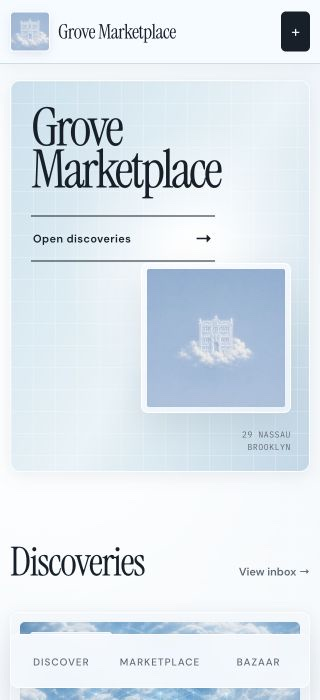
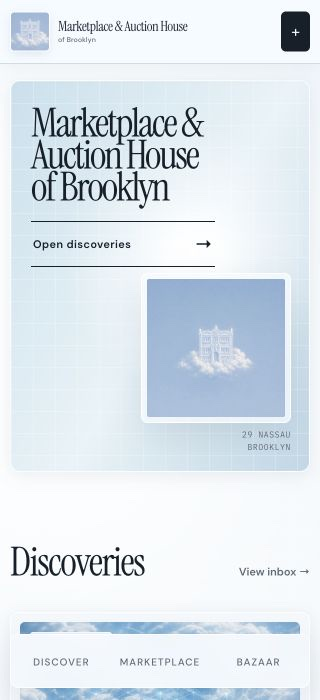
Set Brooklyn auction house identity (#10)

diff --git a/index.html b/index.html
@@ -4,19 +4,19 @@
   <meta charset="utf-8">
   <meta name="viewport" content="width=device-width, initial-scale=1, viewport-fit=cover">
   <meta name="theme-color" content="#d5e8f3">
-  <meta name="description" content="Grove Marketplace. Curator-led physical and digital art in Brooklyn.">
+  <meta name="description" content="Marketplace &amp; Auction House of Brooklyn. Curator-led physical and digital art.">
   <meta name="robots" content="index,follow,max-image-preview:large">
-  <meta property="og:title" content="Grove Marketplace">
+  <meta property="og:title" content="Marketplace &amp; Auction House of Brooklyn">
   <meta property="og:description" content="Curator-led physical and digital art in Brooklyn.">
   <meta property="og:type" content="website">
   <meta property="og:url" content="https://the-school-omega.vercel.app/">
   <meta property="og:image" content="https://the-school-omega.vercel.app/public/assets/school-seed.jpg">
   <meta property="og:image:alt" content="A glowing ornate school floating in pale-blue clouds">
   <meta name="twitter:card" content="summary_large_image">
-  <meta name="twitter:title" content="Grove Marketplace">
+  <meta name="twitter:title" content="Marketplace &amp; Auction House of Brooklyn">
   <meta name="twitter:description" content="Curator-led physical and digital art in Brooklyn.">
   <meta name="twitter:image" content="https://the-school-omega.vercel.app/public/assets/school-seed.jpg">
-  <title>Grove Marketplace</title>
+  <title>Marketplace &amp; Auction House of Brooklyn</title>
   <link rel="canonical" href="https://the-school-omega.vercel.app/">
   <link rel="icon" href="public/assets/school-mark.jpg" type="image/jpeg">
   <link rel="apple-touch-icon" href="public/assets/school-mark.jpg">
@@ -30,9 +30,9 @@
   <a class="skip-link" href="#app">Skip to content</a>
 
   <header class="topbar">
-    <a class="brand" href="#home" aria-label="Grove Marketplace, home">
+    <a class="brand" href="#home" aria-label="Marketplace &amp; Auction House of Brooklyn, home">
       <img src="public/assets/school-mark.jpg" alt="" width="56" height="56">
-      <span><strong>Grove Marketplace</strong></span>
+      <span><strong>Marketplace &amp; Auction House</strong><small>of Brooklyn</small></span>
     </a>
 
     <nav class="main-nav" aria-label="Primary navigation">
@@ -52,9 +52,9 @@
   </main>
 
   <footer class="footer">
-    <a class="brand brand--footer" href="#home" aria-label="Grove Marketplace, home">
+    <a class="brand brand--footer" href="#home" aria-label="Marketplace &amp; Auction House of Brooklyn, home">
       <img src="public/assets/school-mark.jpg" alt="" width="48" height="48">
-      <span><strong>Grove Marketplace</strong></span>
+      <span><strong>Marketplace &amp; Auction House</strong><small>of Brooklyn</small></span>
     </a>
     <nav aria-label="Footer navigation">
       <a href="#discover">Discover</a>

diff --git a/app.js b/app.js
@@ -11,7 +11,7 @@ import {
 } from "./catalog.js";
 import { track, trackClientErrors } from "./analytics.js";
 
-const BRAND_NAME = "Grove Marketplace";
+const BRAND_NAME = "Marketplace & Auction House of Brooklyn";
 const app = document.querySelector("#app");
 const collectDialog = document.querySelector("#collect-dialog");
 const collectContent = document.querySelector("#collect-content");
@@ -121,7 +121,7 @@ const home = () => {
     <div class="page home-page">
       <section class="hero" aria-label="${BRAND_NAME}">
         <div class="hero__identity">
-          <h1>Grove<br>Marketplace</h1>
+          <h1>Marketplace &amp;<br>Auction House<br>of Brooklyn</h1>
           <a class="hero__action" href="#discover">Open discoveries <span aria-hidden="true">→</span></a>
         </div>
         <figure class="hero__mark">
@@ -612,7 +612,7 @@ document.addEventListener("submit", (event) => {
 const downloadCalendar = () => {
   const file = ["BEGIN:VCALENDAR", "VERSION:2.0", "BEGIN:VEVENT", "DTSTART:20260912T160000Z", "DTEND:20260912T230000Z", `SUMMARY:${BRAND_NAME} · Assembly of Light`, "LOCATION:29 Nassau Avenue\\, Brooklyn\\, New York", "END:VEVENT", "END:VCALENDAR"].join("\r\n");
   const url = URL.createObjectURL(new Blob([file], { type: "text/calendar" }));
-  const link = Object.assign(document.createElement("a"), { href: url, download: "grove-marketplace-bazaar.ics" });
+  const link = Object.assign(document.createElement("a"), { href: url, download: "marketplace-auction-house-of-brooklyn-bazaar.ics" });
   link.click();
   URL.revokeObjectURL(url);
   showToast("Calendar ready");

diff --git a/styles.css b/styles.css
@@ -162,9 +162,9 @@ h2 {
 }
 
 .brand strong {
-  max-width: none;
+  max-width: 320px;
   font-family: var(--serif);
-  font-size: 27px;
+  font-size: 22px;
   font-weight: 400;
   letter-spacing: -0.025em;
   line-height: 1;
@@ -173,7 +173,7 @@ h2 {
 .brand small {
   margin-top: 4px;
   color: var(--ink-soft);
-  font-size: 10px;
+  font-size: 9px;
   font-weight: 500;
   letter-spacing: 0.01em;
   white-space: nowrap;
@@ -358,9 +358,9 @@ h2 {
 }
 
 .hero__identity h1 {
-  font-size: clamp(62px, 7.2vw, 104px);
-  letter-spacing: -0.055em;
-  line-height: 0.78;
+  font-size: clamp(58px, 6vw, 82px);
+  letter-spacing: -0.05em;
+  line-height: 0.8;
 }
 
 .hero__action {
@@ -1762,12 +1762,13 @@ h2 {
   }
 
   .brand strong {
-    max-width: 180px;
-    font-size: 20px;
-    line-height: 1;
+    max-width: 184px;
+    font-size: 14px;
+    line-height: 0.94;
   }
 
   .brand small {
+    margin-top: 3px;
     font-size: 7px;
   }
 
@@ -1829,21 +1830,21 @@ h2 {
   }
 
   .hero__identity h1 {
-    font-size: clamp(54px, 16vw, 68px);
-    line-height: 0.79;
+    font-size: clamp(42px, 11.5vw, 50px);
+    line-height: 0.8;
   }
 
   .hero__action {
     width: 184px;
     min-height: 46px;
-    margin-top: 25px;
+    margin-top: 18px;
   }
 
   .hero__mark {
     position: absolute;
     right: 18px;
-    bottom: 58px;
-    width: min(45vw, 172px);
+    bottom: 48px;
+    width: min(42vw, 150px);
     padding: 5px;
   }
 
@@ -2161,7 +2162,7 @@ h2 {
   }
 
   .hero__identity h1 {
-    font-size: 53px;
+    font-size: 40px;
   }
 
   .action-row {

diff --git a/api/health.js b/api/health.js
@@ -11,7 +11,7 @@ export const GET = async (request) => {
     const configuration = publicConfiguration();
     return json({
       status: "ok",
-      service: "marketplace-auction-house-brooklyn-new-york",
+      service: "Marketplace & Auction House of Brooklyn",
       runtime: {
         environment: process.env.VERCEL_ENV || "local",
         region: process.env.VERCEL_REGION || "local"

diff --git a/DESIGN.md b/DESIGN.md
@@ -1,12 +1,12 @@
-# Grove Marketplace · design notes
+# Marketplace & Auction House of Brooklyn · design notes
 
 ## Identity
 
-The user-supplied floating school is Grove Marketplace’s primary mark. A compact crop identifies the header; the exact square image appears on the home page as a restrained celestial catalogue plate rather than a full-bleed illustration.
+The user-supplied floating school is the primary mark for **Marketplace & Auction House of Brooklyn**. A compact crop identifies the header; the exact square image appears on the home page as a restrained celestial catalogue plate rather than a full-bleed illustration.
 
 ## Visual thesis
 
-Grove pairs auction-house discipline with a pale-blue, pixelated school in the clouds:
+The marketplace pairs auction-house discipline with a pale-blue, pixelated school in the clouds:
 
 - measured editorial serif type and quiet sans-serif navigation;
 - thin rules, truthful catalogue metadata, and deliberate spacing;
@@ -14,7 +14,7 @@ Grove pairs auction-house discipline with a pale-blue, pixelated school in the c
 - the supplied school image as the singular atmospheric signature;
 - one concrete home action: **Open discoveries**.
 
-The current official [Sotheby’s](https://www.sothebys.com/en/) presentation informed the clear auction/exhibition hierarchy and concise date, location, format, estimate, and status patterns. The current official [Christie’s](https://www.christies.com/en) presentation informed the editorial scale, generous negative space, fine rules, and disciplined auction-calendar structure. Grove translates those traits into its own curator desk; it does not reproduce either company’s trade dress, content, or layouts.
+The current official [Sotheby’s](https://www.sothebys.com/en/) presentation informed the clear auction/exhibition hierarchy and concise date, location, format, estimate, and status patterns. The current official [Christie’s](https://www.christies.com/en) presentation informed the editorial scale, generous negative space, fine rules, and disciplined auction-calendar structure. The marketplace translates those traits into its own curator desk; it does not reproduce either company’s trade dress, content, or layouts.
 
 ## Product hierarchy
 

diff --git a/LAUNCH.md b/LAUNCH.md
@@ -1,8 +1,8 @@
-# Grove Marketplace · launch plan
+# Marketplace & Auction House of Brooklyn · launch plan
 
 ## Position
 
-Grove Marketplace is the curator-led market for physical work at 29 Nassau Avenue and born-digital work. A named curator sponsors every artist and piece. The monthly auditorium bazaar turns the catalog into a recurring in-person program.
+Marketplace & Auction House of Brooklyn is the curator-led market for physical work at 29 Nassau Avenue and born-digital work. A named curator sponsors every artist and piece. The monthly auditorium bazaar turns the catalog into a recurring in-person program.
 
 NFT acquisition is not deferred: verified existing tokens, new editions, and paired physical + NFT works belong in the first production launch. Crypto is the primary rail; hosted card checkout remains available.
 
@@ -126,7 +126,7 @@ NFTs already exist in launch scope. Phase two deepens them:
 
 ## Prototype map
 
-- `#home` — Grove Marketplace identity, compact school mark, and one discovery action.
+- `#home` — Marketplace & Auction House of Brooklyn identity, compact school mark, and one discovery action.
 - `#discover` — discovery inbox, saved/sponsored states, and link-to-draft intake.
 - `#sponsor` / `#join` — curator draft and configured/unconfigured Instagram/X consent boundary.
 - `#market` / `#work/:slug` — mixed catalog and honest crypto/card preview.

diff --git a/README.md b/README.md
@@ -1,4 +1,4 @@
-# Grove Marketplace
+# Marketplace & Auction House of Brooklyn
 
 [![CI](https://github.com/Greenpoint-Compute-Cooperative/grove-marketplace/actions/workflows/ci.yml/badge.svg)](https://github.com/Greenpoint-Compute-Cooperative/grove-marketplace/actions/workflows/ci.yml)
 [![Production health](https://github.com/Greenpoint-Compute-Cooperative/grove-marketplace/actions/workflows/uptime.yml/badge.svg)](https://github.com/Greenpoint-Compute-Cooperative/grove-marketplace/actions/workflows/uptime.yml)
@@ -8,11 +8,11 @@ A curator-led marketplace for physical art in the School and born-digital work. 
 
 **Live:** [the-school-omega.vercel.app](https://the-school-omega.vercel.app)
 
-![Grove Marketplace home page](docs/screenshot-desktop.jpg)
+![Marketplace & Auction House of Brooklyn home page](docs/screenshot-desktop.jpg)
 
 ![Born-digital work and acquisition preview](docs/screenshot-work.jpg)
 
-<img src="docs/screenshot-phone.jpg" alt="Grove Marketplace on a phone" width="300">
+<img src="docs/screenshot-phone.jpg" alt="Marketplace &amp; Auction House of Brooklyn on a phone" width="300">
 
 ## Architecture
 

diff --git a/CHANGELOG.md b/CHANGELOG.md
@@ -1,6 +1,6 @@
 # Changelog
 
-All notable changes to Grove Marketplace are recorded here.
+All notable changes to Marketplace & Auction House of Brooklyn are recorded here.
 
 ## Unreleased
 
@@ -9,11 +9,18 @@ All notable changes to Grove Marketplace are recorded here.
 - Provider-approved Instagram and X OAuth apps.
 - Authoritative wallet, mint, card, inventory, and fulfillment integrations.
 
+## 1.0.3 - 2026-08-25
+
+### Changed
+
+- Set the exact public identity to **Marketplace & Auction House of Brooklyn** across the interface, metadata, manifest, service output, calendar export, and documentation.
+- Preserved the compact celestial school plate and restrained auction-house-informed editorial system.
+
 ## 1.0.2 - 2026-08-25
 
 ### Changed
 
-- Restored the public identity to **Grove Marketplace**.
+- Restored a concise interim marketplace identity.
 - Reframed the supplied floating school as a compact catalogue mark and introduced a restrained, auction-house-informed editorial surface system.
 
 ## 1.0.1 - 2026-08-24

diff --git a/docs/METRICS.md b/docs/METRICS.md
@@ -68,7 +68,7 @@ Button clicks are never counted as sales, mints, ownership, or revenue.
 
 ## Read the dashboard feed
 
-Pull production environment variables into the ignored `.env.local`, then run the report. The founding operator’s non-exportable Vercel token is mirrored in macOS Keychain under `Grove Marketplace / metrics-read-token`; the script also accepts the former service name during migration. Other authorized operators should receive their token through the team password manager, never GitHub or chat.
+Pull production environment variables into the ignored `.env.local`, then run the report. The founding operator’s non-exportable Vercel token is mirrored in macOS Keychain under `Marketplace & Auction House of Brooklyn / metrics-read-token`; the script also accepts former service names during migration. Other authorized operators should receive their token through the team password manager, never GitHub or chat.
 
 ```sh
 npm run metrics -- --days=30

diff --git a/CONTRIBUTING.md b/CONTRIBUTING.md
@@ -1,6 +1,6 @@
 # Contributing
 
-Grove Marketplace is curator-led, art-first, and intentionally small. Contributions should make the real product clearer, safer, faster, or easier to operate—not simulate an integration that does not exist.
+Marketplace & Auction House of Brooklyn is curator-led, art-first, and intentionally small. Contributions should make the real product clearer, safer, faster, or easier to operate—not simulate an integration that does not exist.
 
 ## Golden path
 

diff --git a/docs/OAUTH_SETUP.md b/docs/OAUTH_SETUP.md
@@ -1,6 +1,6 @@
 # Social access setup
 
-Grove Marketplace accepts curator access only through Instagram or X. The site never accepts an email/password form, social password, or scraped account data.
+Marketplace & Auction House of Brooklyn accepts curator access only through Instagram or X. The site never accepts an email/password form, social password, or scraped account data.
 
 ## Shared Supabase setup
 
